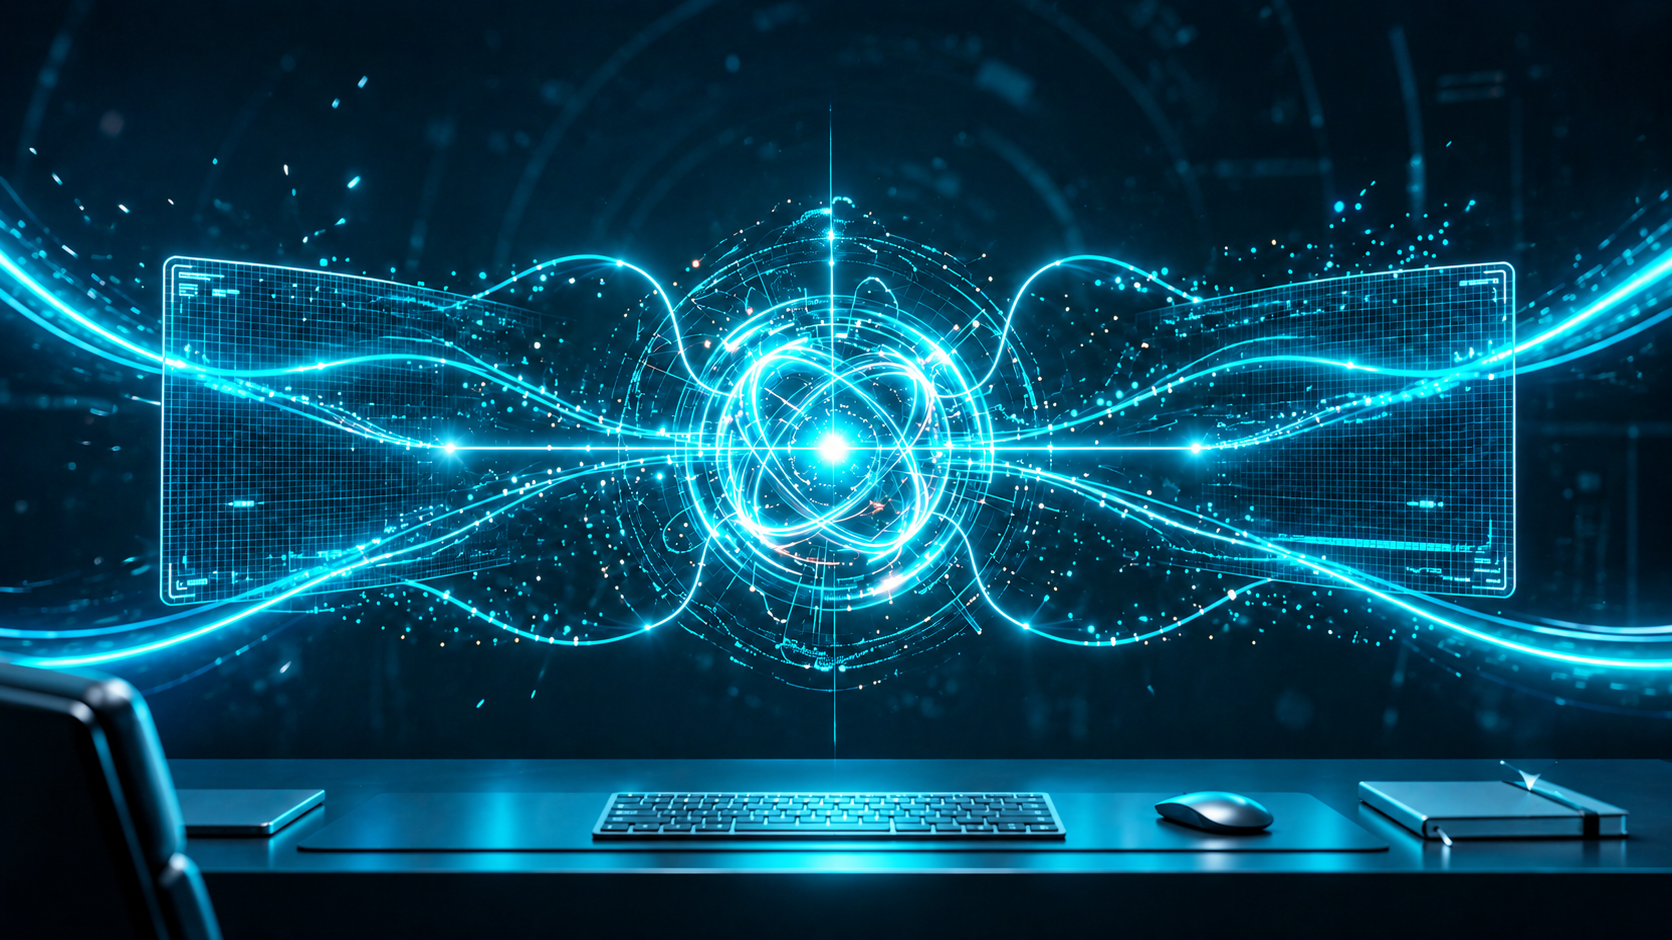
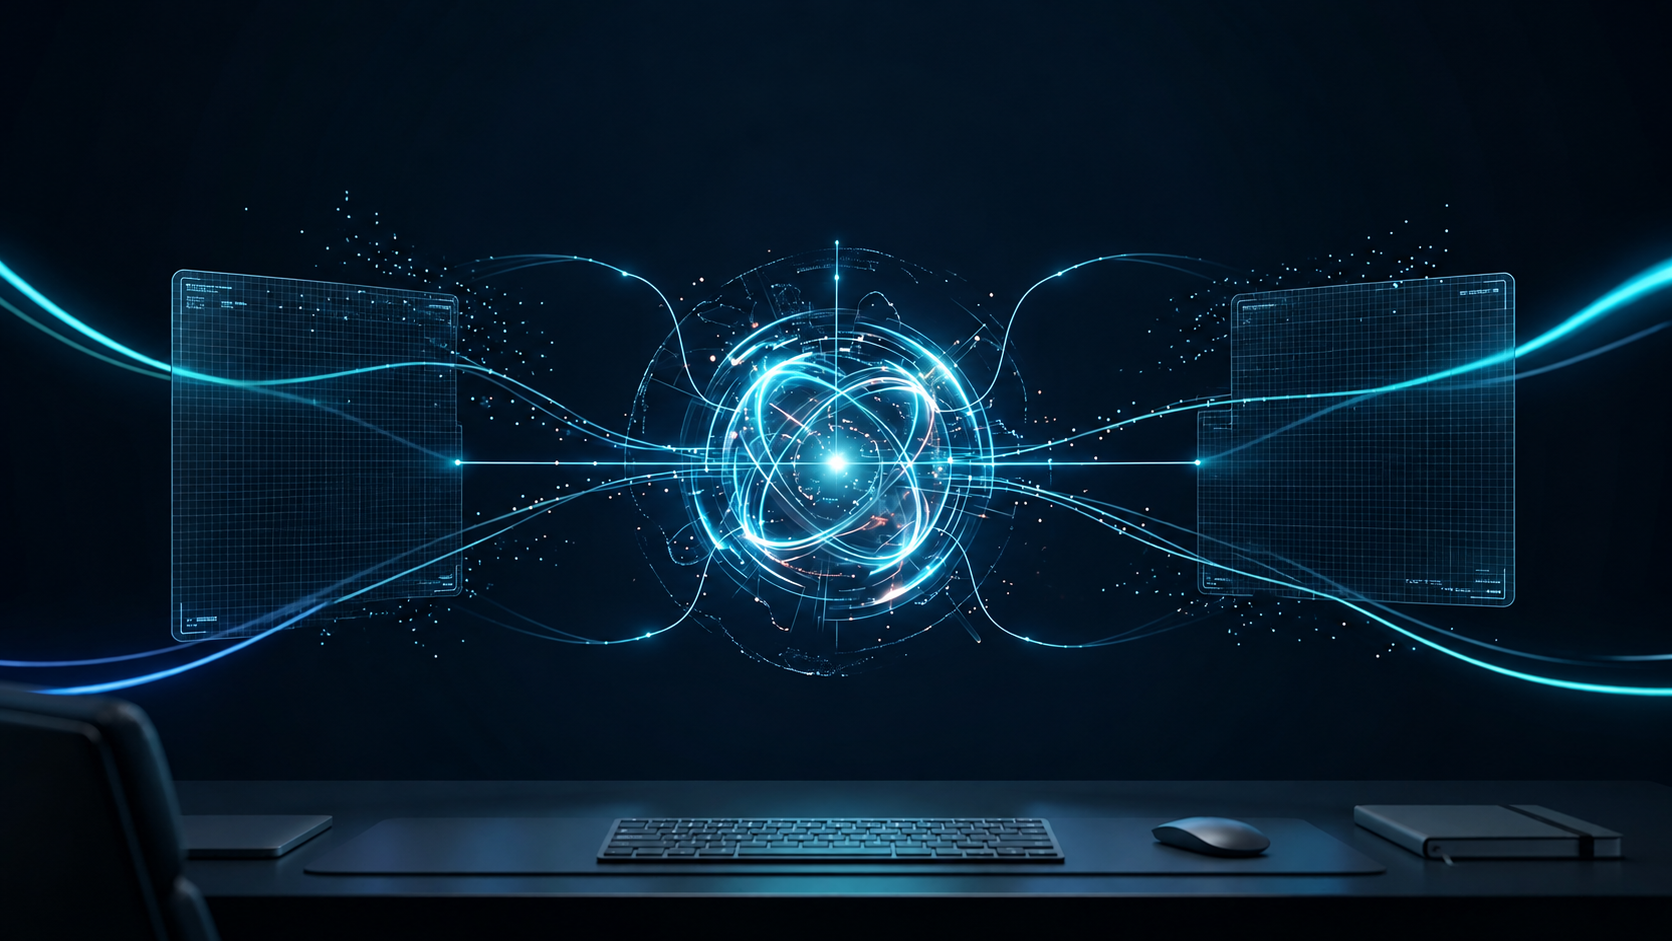
updation in features page

diff --git a/src/app/app.ts b/src/app/app.ts
@@ -25,10 +25,10 @@ export interface HykonBranch {
   styleUrl: './app.scss'
 })
 export class App implements AfterViewInit, OnDestroy {
- constructor(
-  @Inject(PLATFORM_ID) private platformId: object,
-  private readonly authService: AuthService
-) {}
+  constructor(
+    @Inject(PLATFORM_ID) private platformId: object,
+    private readonly authService: AuthService
+  ) { }
   @ViewChild('aboutCanvas') aboutCanvasRef!: ElementRef<HTMLCanvasElement>;
 
   // Navigation links with active state
@@ -68,8 +68,8 @@ export class App implements AfterViewInit, OnDestroy {
     this.clearErrors();
     this.isSignUpMode.set(isSignUp);
     this.isLoginModalOpen.set(true);
-    
-  
+
+
   }
 
   openSignUpModal() {
@@ -160,9 +160,9 @@ export class App implements AfterViewInit, OnDestroy {
   private resizeListener: (() => void) | null = null;
 
   // About Us text overlay signals (driven by scroll progress)
-  aboutTextOpacity    = signal<number>(1);
+  aboutTextOpacity = signal<number>(1);
   aboutTextTranslateY = signal<number>(0);
-  aboutTextScale      = signal<number>(1);
+  aboutTextScale = signal<number>(1);
 
   // Avatars list
   avatars = [
@@ -243,7 +243,7 @@ export class App implements AfterViewInit, OnDestroy {
 
   selectedBranchId = signal<string>('kochi-kinfra');
   showBranchDropdown = signal<boolean>(false);
-  
+
   // Side boxes pop-up animation state on scroll
   boxesVisible = signal<boolean>(false);
 
@@ -383,14 +383,14 @@ export class App implements AfterViewInit, OnDestroy {
     const img = this.frames[index];
     if (!img || !img.complete || img.naturalWidth === 0) return;
 
-    const rect   = canvas.getBoundingClientRect();
-    const dpr    = window.devicePixelRatio || 1;
+    const rect = canvas.getBoundingClientRect();
+    const dpr = window.devicePixelRatio || 1;
 
-    const targetW = Math.round(rect.width  * dpr);
+    const targetW = Math.round(rect.width * dpr);
     const targetH = Math.round(rect.height * dpr);
 
     if (canvas.width !== targetW || canvas.height !== targetH) {
-      canvas.width  = targetW;
+      canvas.width = targetW;
       canvas.height = targetH;
       ctx.setTransform(dpr, 0, 0, dpr, 0, 0);
     }
@@ -398,13 +398,13 @@ export class App implements AfterViewInit, OnDestroy {
     ctx.imageSmoothingEnabled = true;
     (ctx as any).imageSmoothingQuality = 'high';
 
-    const cssW  = rect.width;
-    const cssH  = rect.height;
+    const cssW = rect.width;
+    const cssH = rect.height;
     const scale = Math.max(cssW / img.naturalWidth, cssH / img.naturalHeight);
-    const drawW = img.naturalWidth  * scale;
+    const drawW = img.naturalWidth * scale;
     const drawH = img.naturalHeight * scale;
-    const ox    = (cssW - drawW) / 2;
-    const oy    = (cssH - drawH) / 2;
+    const ox = (cssW - drawW) / 2;
+    const oy = (cssH - drawH) / 2;
 
     ctx.clearRect(0, 0, cssW, cssH);
     ctx.drawImage(img, ox, oy, drawW, drawH);
@@ -416,13 +416,13 @@ export class App implements AfterViewInit, OnDestroy {
     const section = document.getElementById('about-section');
     if (!section) return;
 
-    const sectionTop    = section.offsetTop;
+    const sectionTop = section.offsetTop;
     const sectionHeight = section.scrollHeight;
-    const viewH         = scroller.clientHeight;
-    const scrollTop     = scroller.scrollTop;
+    const viewH = scroller.clientHeight;
+    const scrollTop = scroller.scrollTop;
 
     const start = sectionTop;
-    const end   = sectionTop + sectionHeight - viewH;
+    const end = sectionTop + sectionHeight - viewH;
     const progress = Math.min(Math.max((scrollTop - start) / (end - start), 0), 1);
 
     // REVERSED: start at last frame (hands close + text visible) and play backwards
@@ -441,8 +441,8 @@ export class App implements AfterViewInit, OnDestroy {
 
     // REVERSED text overlay:
     // Text is FULLY visible at scroll start (progress=0) and fades OUT as user scrolls down.
-    const TEXT_VISIBLE_END   = 0.30;  // text starts fading at 30% scroll
-    const TEXT_FADE_END      = 0.50;  // text fully gone by 50% scroll
+    const TEXT_VISIBLE_END = 0.30;  // text starts fading at 30% scroll
+    const TEXT_FADE_END = 0.50;  // text fully gone by 50% scroll
 
     let opacity = 0;
     let translateY = 0;
@@ -450,19 +450,19 @@ export class App implements AfterViewInit, OnDestroy {
 
     if (progress < TEXT_VISIBLE_END) {
       // Fully visible at the start
-      opacity    = 1;
+      opacity = 1;
       translateY = 0;
-      scale      = 1;
+      scale = 1;
     } else if (progress <= TEXT_FADE_END) {
       const t = (progress - TEXT_VISIBLE_END) / (TEXT_FADE_END - TEXT_VISIBLE_END);
       const ease = t < 0.5 ? 2 * t * t : -1 + (4 - 2 * t) * t;
-      opacity    = 1 - ease;
+      opacity = 1 - ease;
       translateY = -30 * ease;
-      scale      = 1 - 0.06 * ease;
+      scale = 1 - 0.06 * ease;
     } else {
-      opacity    = 0;
+      opacity = 0;
       translateY = -30;
-      scale      = 0.94;
+      scale = 0.94;
     }
 
     this.aboutTextOpacity.set(Math.max(0, Math.min(1, opacity)));

diff --git a/src/app/app.html b/src/app/app.html
@@ -232,7 +232,10 @@
   <!-- ===== FEATURES PAGE SECTION ===== -->
   <section id="features-section" class="features-page-section">
     <div class="features-image-container">
-      <img src="assets/features page image.png" alt="Features Page" class="features-image" />
+      <img src="assets/features page imag.png" 
+           (error)="$any($event.target).src = 'assets/features page image.png'" 
+           alt="Features Page" 
+           class="features-image" />
     </div>
   </section>
 
